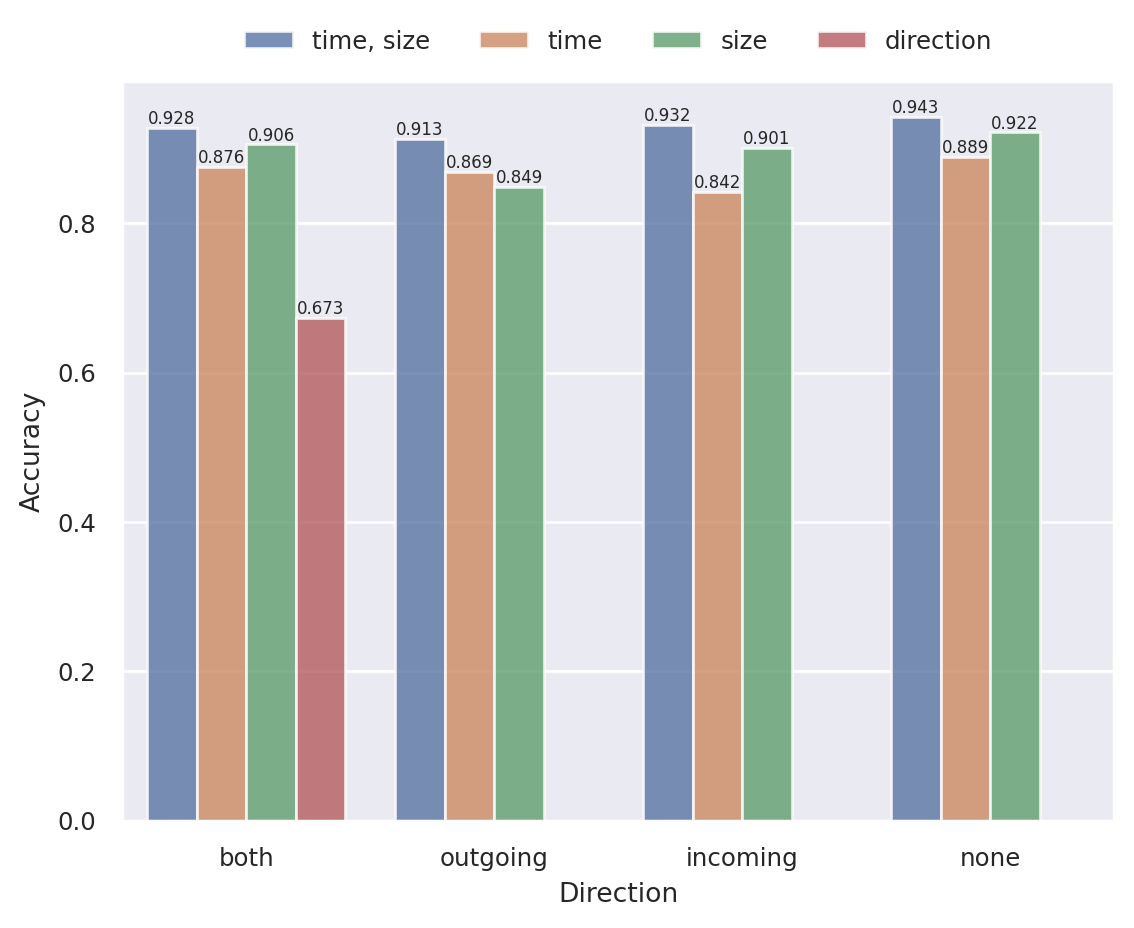
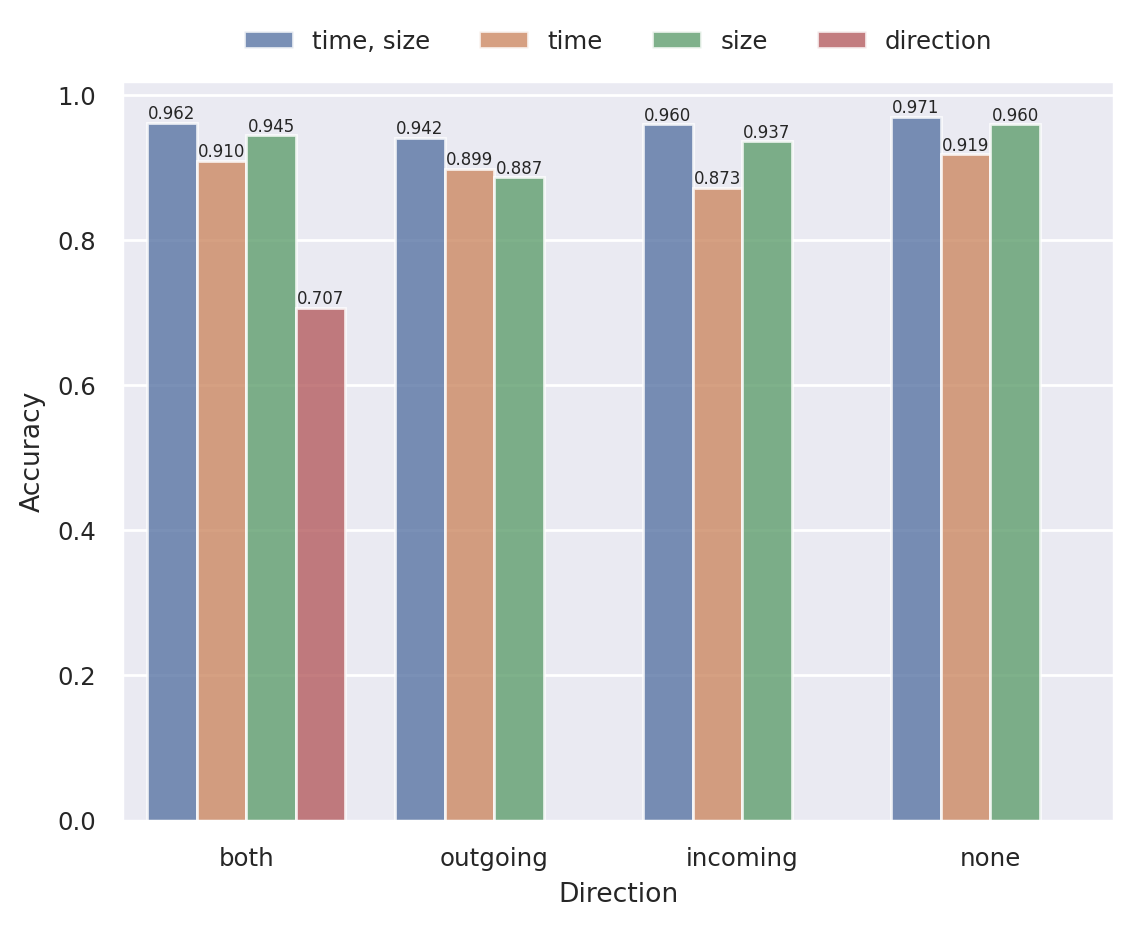
switched to modified accuracy

diff --git a/analysis/plot_results.py b/analysis/plot_results.py
@@ -184,25 +184,25 @@ def plot_feature_comparison_by_direction():
     # features/direction/accuracy
     data = {
         'time, size': {
-            'both': 0.928,
-            'outgoing': 0.913,
-            'incoming': 0.932,
-            'none': 0.943,
+            'both': 0.962,
+            'outgoing': 0.942,
+            'incoming': 0.960,
+            'none': 0.971,
         },
         'time': {
-            'both': 0.876,
-            'outgoing': 0.869,
-            'incoming': 0.842,
-            'none': 0.889,
+            'both': 0.910,
+            'outgoing': 0.899,
+            'incoming': 0.873,
+            'none': 0.919,
         },
         'size': {
-            'both': 0.906,
-            'outgoing': 0.849,
-            'incoming': 0.901,
-            'none': 0.922,
+            'both': 0.945,
+            'outgoing': 0.887,
+            'incoming': 0.937,
+            'none': 0.960,
         },
         'direction': {
-            'both': 0.673,
+            'both': 0.707,
         },
     }
     data_lists = []
